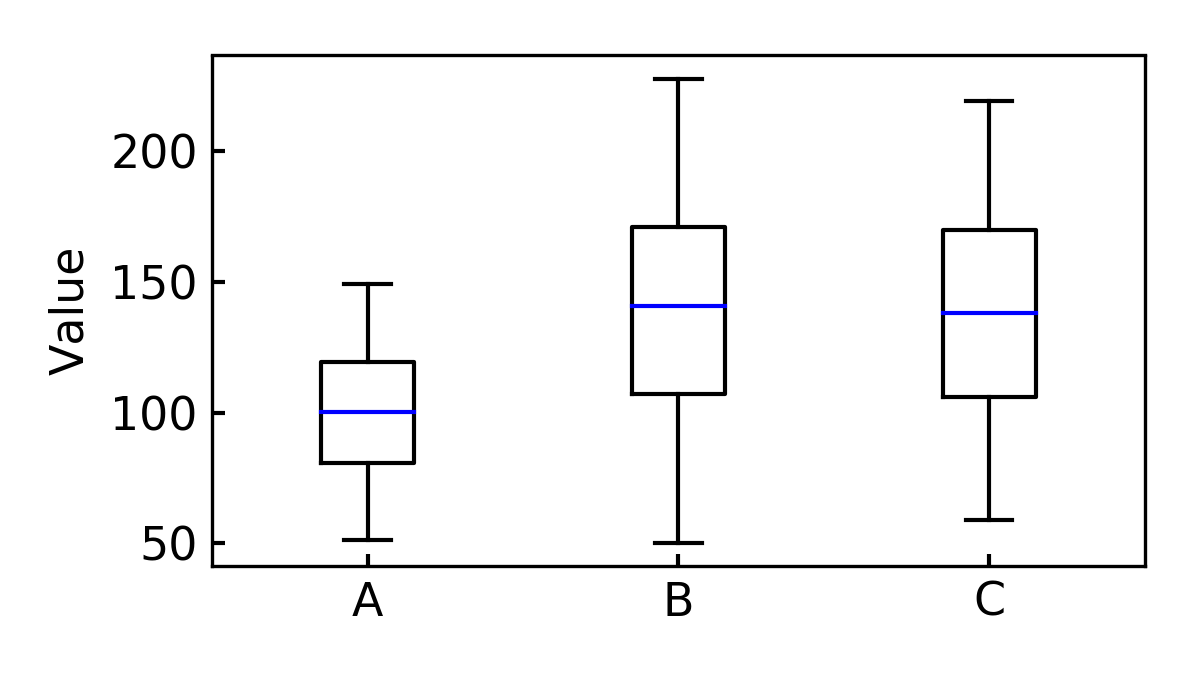
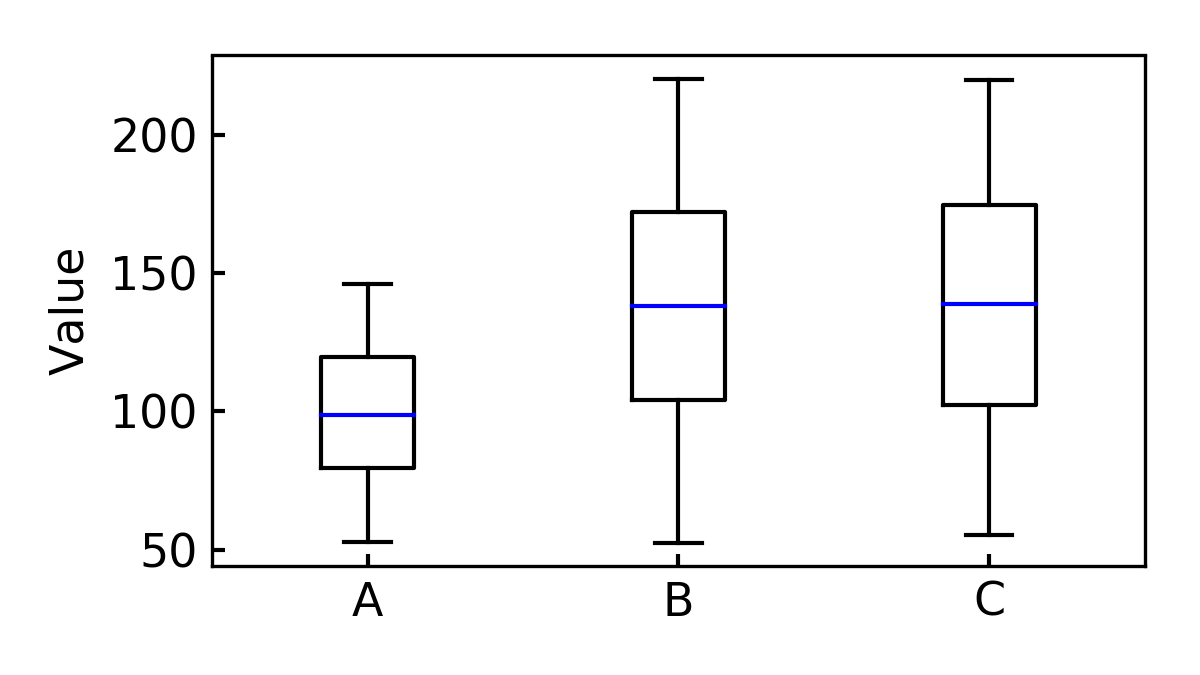
fixed fonts

diff --git a/examples/plot_example.py b/examples/plot_example.py
@@ -61,7 +61,8 @@ fastplot.plot( [('One', ts), ('Two', ts2)] , 'examples/7_timeseries_multi.png', 
 rng = pd.date_range('1/1/2011', periods=480, freq='H')
 df = pd.DataFrame( np.random.uniform(3,4,size=(len(rng),2)), index=rng, columns=('One', 'Two') )
 df = df.divide(df.sum(axis=1), axis=0)*100
-fastplot.plot( df , 'examples/8_timeseries_stacked.png', mode='timeseries_stacked', ylabel = 'Value [%]', xticks_rotate=30, ylim=(0,100), legend=True)
+fastplot.plot( df , 'examples/8_timeseries_stacked.png', mode='timeseries_stacked', ylabel = 'Value [%]', xticks_rotate=30, ylim=(0,100), legend=True,
+                xlim=(pd.Timestamp('1/1/2011'), pd.Timestamp('1/7/2011')))
 
 
 
@@ -83,7 +84,7 @@ x = range(11)
 y=[120,150,234,465,745,612,554,234,565,888,154]
 def my_callback(plt):
     plt.bar(x,y)
-fastplot.plot([],  'examples/10_callback.png', mode = 'callback', callback = my_callback, style='latex', xlim=(-0.5, 11.5), ylim=(0, 1000))
+fastplot.plot([],  'examples/11_callback.png', mode = 'callback', callback = my_callback, style='latex', xlim=(-0.5, 11.5), ylim=(0, 1000))
 
 
 

diff --git a/fastplot/__init__.py b/fastplot/__init__.py
@@ -47,9 +47,9 @@ def plot(data, path, mode = 'line',
         plt.rc('font', **{'family': 'serif', 'serif': ['Computer Modern']})
         plt.rc('text', usetex=True)
     elif style == 'serif':
-        plt.rc('font', **{'family': 'serif', 'serif': ['Liberation Serif']})
+        plt.rcParams["font.family"] = "Times New Roman"
     else:
-        plt.rc('font', **{'family': 'sans-serif'})
+        plt.rcParams["font.family"] = "sans-serif"
     plt.rc('axes', prop_cycle=cycler)
     plt.rc('font', **{'size': fontsize})
 

diff --git a/README.md b/README.md
@@ -175,7 +175,8 @@ fastplot.plot( [('One', ts), ('Two', ts2)] , '7_timeseries_multi.png', mode='tim
 rng = pd.date_range('1/1/2011', periods=480, freq='H')
 df = pd.DataFrame( np.random.uniform(3,4,size=(len(rng),2)), index=rng, columns=('One', 'Two') )
 df = df.divide(df.sum(axis=1), axis=0)*100
-fastplot.plot( df , '8_timeseries_stacked.png', mode='timeseries_stacked', ylabel = 'Value [%]', xticks_rotate=30, ylim=(0,100), legend=True)
+fastplot.plot( df , 'examples/8_timeseries_stacked.png', mode='timeseries_stacked', ylabel = 'Value [%]', xticks_rotate=30, ylim=(0,100), legend=True,
+                xlim=(pd.Timestamp('1/1/2011'), pd.Timestamp('1/7/2011')))
 ```
 ![alt text](https://github.com/marty90/fastplot/raw/master/examples/8_timeseries_stacked.png)
 
@@ -202,9 +203,9 @@ x = range(11)
 y=[120,150,234,465,745,612,554,234,565,888,154]
 def my_callback(plt):
     plt.bar(x,y)
-fastplot.plot([],  '10_callback.png', mode = 'callback', callback = my_callback, style='latex', xlim=(-0.5, 11.5), ylim=(0, 1000))
+fastplot.plot([],  '11_callback.png', mode = 'callback', callback = my_callback, style='latex', xlim=(-0.5, 11.5), ylim=(0, 1000))
 ```
-![alt text](https://github.com/marty90/fastplot/raw/master/examples/10_callback.png)
+![alt text](https://github.com/marty90/fastplot/raw/master/examples/11_callback.png)
 
 
 
